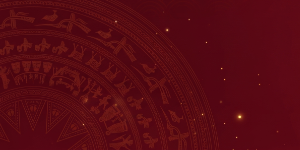
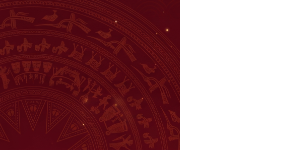
fix(asset): loại bỏ watermark AI 4 cánh trên nền họa tiết và chuẩn hóa text Khép lại và mở ra

diff --git a/index.html b/index.html
@@ -2114,7 +2114,7 @@
         <a href="#sec-future" class="tab-pill"><i data-lucide="sparkles"></i> Kiến Tạo Tương Lai</a>
         <a href="#sec-honor" class="tab-pill"><i data-lucide="award"></i> Vững Bước Đồng Hành</a>
         <a href="#sec-emotions" class="tab-pill"><i data-lucide="heart"></i> Sức Sống Agribank</a>
-        <a href="#sec-closing" class="tab-pill"><i data-lucide="bookmark"></i> Khép Lại & Mở Ra</a>
+        <a href="#sec-closing" class="tab-pill"><i data-lucide="bookmark"></i> Khép lại và mở ra</a>
       </div>
     </nav>
   </header>
@@ -2747,7 +2747,7 @@
     <div class="closing-huge-25">25</div>
     
     <div class="closing-card-inner">
-      <span class="section-lead-tag" style="color: var(--gold-champagne);">Phần 6 • Khép Lại & Mở Ra</span>
+      <span class="section-lead-tag" style="color: var(--gold-champagne);">Phần 6 • Khép lại và mở ra</span>
       <h2 class="closing-title">TỰ HÀO TRUYỀN THỐNG<br>KIẾN TẠO TƯƠNG LAI</h2>
       
       <p class="closing-sub">

diff --git a/preview.html b/preview.html
@@ -269,7 +269,7 @@
         <img src="backgrounds/04_future_aspiration.jpg" alt="04_future_aspiration.jpg">
       </div>
       <div class="card-body">
-        <div class="tag">Phần 6 • Khép Lại & Mở Ra (Bìa Sau)</div>
+        <div class="tag">Phần 6 • Khép lại và mở ra (Bìa Sau)</div>
         <div class="title">Tòa Nhà Viện Vươn Cao Lên Bầu Trời Xanh</div>
         <div class="desc">Khoáng đạt, tinh khôi với bầu trời xanh rộng mở và ánh nắng ban mai, biểu trưng cho tương lai rực rỡ và khát vọng vươn tầm chiến lược.</div>
         <div class="file-line">
